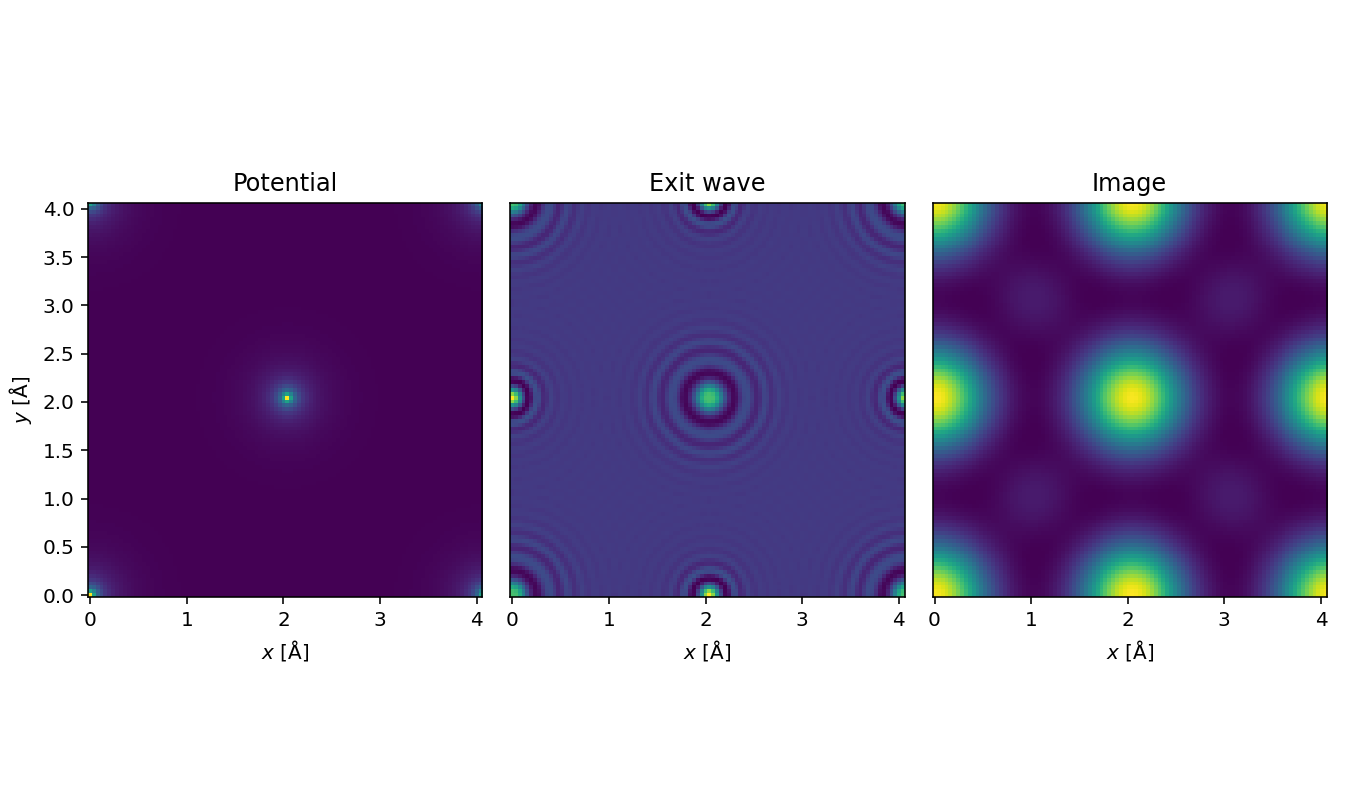
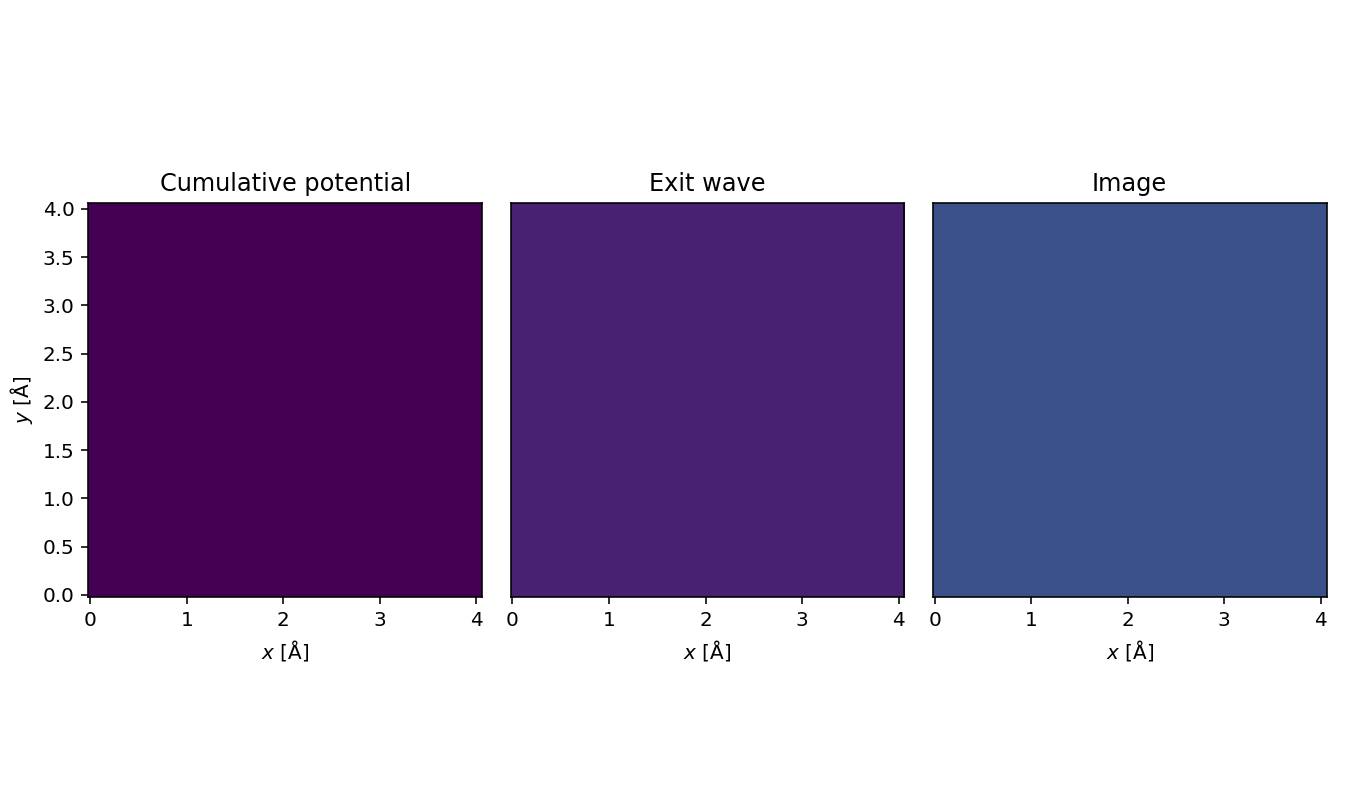
additions to TEM text

diff --git a/TEM.md b/TEM.md
@@ -10,13 +10,28 @@ numbering:
 ### Wavefunctions
 After building an atomic potential as described in the [](#algorithms_page), the first step in a TEM simulation is to choose the wavefunction ({math}`\Psi`) for the simulation. The simplest case for the incident beam is to set {math}`\Psi` to unity everywhere in the plane, which means perfectly even illumination across the sample. However, it is possible to introduce more complications, such as a slightly [titled plane wave](https://abtem.readthedocs.io/en/main/user_guide/walkthrough/multislice.html#small-angle-beam-tilt). The sampling is set by the gridpoint and extent as described in section [](#sim_inputs_page).
 
+(id-tem-imaging)=
 ### Imaging
 
-A TEM image is simulated by propagating the wavefunction through the specimen potential using the multislice algorithm (as described in [](#algorithms_page)), which calculates how the wave evolves due to scattering by the specimen atoms and the propagation through it. The resulting exit-wave is complex, but can be visualized via its intensity. For a more realistic image, a [contrast transfer function](#CTF_page) can be applied to model the optics of the microscope. More detials aberrations can be found in [](#CTF_page).  Note that in TEM simulations, aberrations are added after the computationally time-consuming multislice calculation, which described the physics of the interaction.
+A TEM image is simulated by propagating the wavefunction through the specimen potential using the multislice algorithm (as described in [](#algorithms_page)), which calculates how the wave evolves due to scattering by the specimen atoms and the propagation through it. The resulting exit-wave is complex, but can be visualized via its intensity. For a more realistic image, a [contrast transfer function](#CTF_page) can be applied to model the optics of the microscope. More detials aberrations can be found in [](#CTF_page).  
+
+In TEM, aberrations ({math}`\chi(\bm{k})`) modify the exit wave ({math}`\Psi_{exit}`) after the multislice simulation: 
+
+```{math}
+:label: eq:TEM_aberrations
+
+\Psi_{image}(\bm{k}) = \Psi_{exit}(\bm{k}) \mathrm{e}^{-i\chi(\bm{k})}.
+
+```
+
+Note that in TEM simulations, aberrations are added after the computationally time-consuming multislice calculation, which described the physics of the interaction. 
 
 In [](#fig_tem_Au_potential_wave_image) we show an interactive visualization of the cumulative projected potential of gold with a lattice constant of 4.08 Å in the <100> zone axis, the corresponding exit wave function, and the resulting image as a function of depth through the specimen. The multislice algorithm is only accurate in the limit of good (small) sampling rate and thin slices, but improving these parameters also increases computational cost. A sensible value for the sampling is between $\mathrm{0.05} \ \mathrm{Å}$ and $0.02 \ \mathrm{Å}$, and the slice thickness is typically between $1.0 \ \mathrm{Å}$ and $0.025 \ \mathrm{Å}$; we use a value of $\sim1.0 \ \mathrm{Å}$ here.
 
-To describe a parallel illumination TEM experiment, we use a plane wavefunction with an energy of $200 \ \mathrm{keV}$. For the CTF, the spherical aberration will be set to $-20~\mu \mathrm{m}$ (remember that *ab*TEM uses units of $\mathrm{Å}$) and the defocus is set to the [Scherzer defocus](https://en.wikipedia.org/wiki/High-resolution_transmission_electron_microscopy). The aperture is set at the first zero cross-over of the CTF, and a focal spread of $10 \ \mathrm{Å}$ is applied as an easy way to model realistic blurring of the image.
+In [](#fig_tem_Au_potential_wave_image), we start with no potential and correspondingly the exit wave is flat and has no features. As the thickness of the gold sample increases, so does the potential, which is why we see increased contrast in the left panel. The corresponding exit wave calculated from the multislice simulation is shown in the middle. We are visualizing the intenisty of the exit wave (more information about phase in [](#id-tem-phase)). The relationship between the exit wave and thickness is not linear as in th case of the potential, so you will see oscillations as the thickness changes.
+
+Finally the right panel shows the resulting image from this simulation. To describe a parallel illumination TEM experiment, we use a plane wavefunction with an energy of $200 \ \mathrm{keV}$. For the CTF, the spherical aberration will be set to $-20~\mu \mathrm{m}$ (remember that *ab*TEM uses units of $\mathrm{Å}$) and the defocus is set to the [Scherzer defocus](https://en.wikipedia.org/wiki/High-resolution_transmission_electron_microscopy). The aperture is set at the first zero cross-over of the CTF, and a focal spread of $10 \ \mathrm{Å}$ is applied as an easy way to model realistic blurring of the image. 
+
 
 ```{figure} #app:tem_Au_potential_wave_image
 :name: fig_tem_Au_potential_wave_image
@@ -26,18 +41,18 @@ To describe a parallel illumination TEM experiment, we use a plane wavefunction 
 
 ### Electron diffraction patterns
 
-Instead of an image, we can instead simulate a selected area diffraction (SAD) experiment by using the `DiffractionPatterns`method. We use `block_direct=True` to block the direct beam, which typically has a much higher intensity than the scattered beams, making it show it on the same scale. In a real experiment, you may similarly use a central beam stop in order to to visualize the scattered beams.
+Instead of an image, we can instead simulate a selected area diffraction (SAD) experiment by using the `DiffractionPatterns` method. We use `block_direct=True` to block the direct beam, which typically has a much higher intensity than the scattered beams, making it show it on the same scale. In a real experiment, you may similarly use a central beam stop in order to to visualize the scattered beams.
 
 You may wonder; why do the diffraction spots look like squares? This is because the incoming wave function is a periodic and infinite plane wave, hence the intersection with the Ewald sphere is pointlike. However, since we are discretizing the wave function on a square grid (i.e. pixels), the spots can only be as small as single pixels. In real SAD experiments, the spot size is broadened due to the finite extent of the crystal as well instrumental effects.
 
 We can use the `index_diffraction_spots` method to create a represention of SAD patterns as a mapping of Miller indices to the intensity of the corresponding reflections. The *conventional* unit cell have to be provided in order to index the pattern, we can provide this as the unit cell of the gold crystal we created earlier, we cannot use the the repeated cell.
 
-In [](#fig_tem_Au_diffraction) we show an interactive visualization of the diffraction intensities and indexed diffraction spots as function of the depth through the specimen. We see that the {100} reflections are extinguished, as is expected from the selection rules of an F-centered crystal. We can also observe that the <220> spots end up with significantly higher intensity than the <200> spots; this is due to dynamical scattering — which is accounted for by the multislice algorithm.
+In [](#fig_tem_Au_diffraction) we show an interactive visualization of the diffraction intensities and indexed diffraction spots as function of the depth through the specimen. We see that the {100} reflections are extinguished, as is expected from the selection rules of an F-centered crystal. We can also observe that the <220> spots end up with significantly higher intensity than the <200> spots; this is due to dynamical scattering — which is accounted for by the multislice algorithm. Finally you may notice as the thickness increases, the apperance of higher order laue zones.
 
 ```{figure} #app:tem_Au_diffraction
 :name: fig_tem_Au_diffraction
 :placeholder: ./static/tem_Au_diffraction.png
-**Visualization of redistribution of diffraction intensity as function of depth through an Au <100> specimen, and the Miller indexing of the resulting diffraction spots.**
+**Visualization of redistribution of diffraction intensity as function of depth through an Au <100> specimen and the Miller indexing of the resulting diffraction spots.**
 ```
 
 (id-tem-phase)=
@@ -48,15 +63,9 @@ One example of the importance of aberrations and wavfunction modification is sho
 
 Note that simulations described thus far are performed to the limit of infinite electron dose. Leaving aside other factors, the main source of noise in S/TEM is so-called shot noise arising from the discrete nature of electrons. We can effectively emulate finite dose by drawing random numbers from a Poisson distribution for every pixel. We apply this so-called Poisson noise corresponding a dose per area, for example in the [](#fig_tem_phase).
 
-We may also be interested in seeing how aberrations or other beam modifications impact imaging conditions. There are a variety of aberration functions ({math}`\chi(\bm{k})`) we may be interested in including as described in [](#CTF_page).
+As discussed in [](#id-tem-imaging), we may also be interested in seeing how aberrations or other beam modifications impact imaging conditions. For the same dose, the image contrast can be increased by modfying the wavefunctions by way of aberrations. This is most often done with defocus, which is illustrated in the middle pannel [](#fig_tem_phase). The resulting image has improved contrast, making it easier to visualize the covid spike protein. The middle pannel shows the defocused image, and the aberrations can often be corrected for later in post-processing. 
 
-In TEM, aberrations modify the exit wave ({math}`\Psi_{exit}`) after the multislice simulation: 
-
-```{math}
-:label: eq:TEM_aberrations
-
-\Psi_{image}(\bm{k}) = \Psi_{exit}(\bm{k}) \mathrm{e}^{-i\chi(\bm{k})},
-```
+The phase of the spike protein can also be image through the introduction of a phase plate after the sample. This simulation ([](#fig_tem_phase) right) shows a Zernike phase plate {cite:p}`zernike1942phase`, where electrons scattered to higher angles, gain an extra phase shift. This high-contrast image is free of aberrations, making it easy to see the spike protein. However, changing the slides on the widget highlgihts some of the challenges of phase contrast imaging with a phase plate. The best transfer of information occurs with a phase plate that approximtes a delta function, meaning all the electrons exepct those in the very center of the aperature get an extra $\pi/2$ phase shift. However, as the size of the hole increases or the phase shift changes, the transfer of information gets worse.
 
 ```{figure} #app:tem_contrast
 :name: fig_tem_phase
@@ -64,6 +73,3 @@ In TEM, aberrations modify the exit wave ({math}`\Psi_{exit}`) after the multisl
 **TEM imaging of COVID spike protein**: (left) In focus, (middle) defocued, and (right) Zernike phase plate TEM images. [Covid structure](https://www.rcsb.org/structure/3jcl) from {cite}`walls2016cryo`
 ```
 
-For the same dose, the image contrast can be increased by modfying the wavefunctions by way of aberrations. This is most often done with defocus, which is illustrated in the middle pannel [](#fig_tem_phase). The resulting image has improved contrast, making it easier to visualize the covid spike protein. The middle pannel shows the defocused image, and the aberrations can often be corrected for later in post-processing. 
-
-The phase of the spike protein can also be image through the introduction of a phase plate after the sample. This simulation ([](#fig_tem_phase) right) shows a Zernike phase plate {cite:p}`zernike1942phase`, where electrons scattered to higher angles, gain an extra phase shift. This high-contrast image is free of aberrations, making it easy to see the spike protein. However, changing the slides on the widget highlgihts some of the challenges of phase contrast imaging with a phase plate. The best transfer of information occurs with a phase plate that approximtes a delta function, meaning all the electrons exepct those in the very center of the aperature get an extra $\pi/2$ phase shift. However, as the size of the hole increases or the phase shift changes, the transfer of information gets worse.
